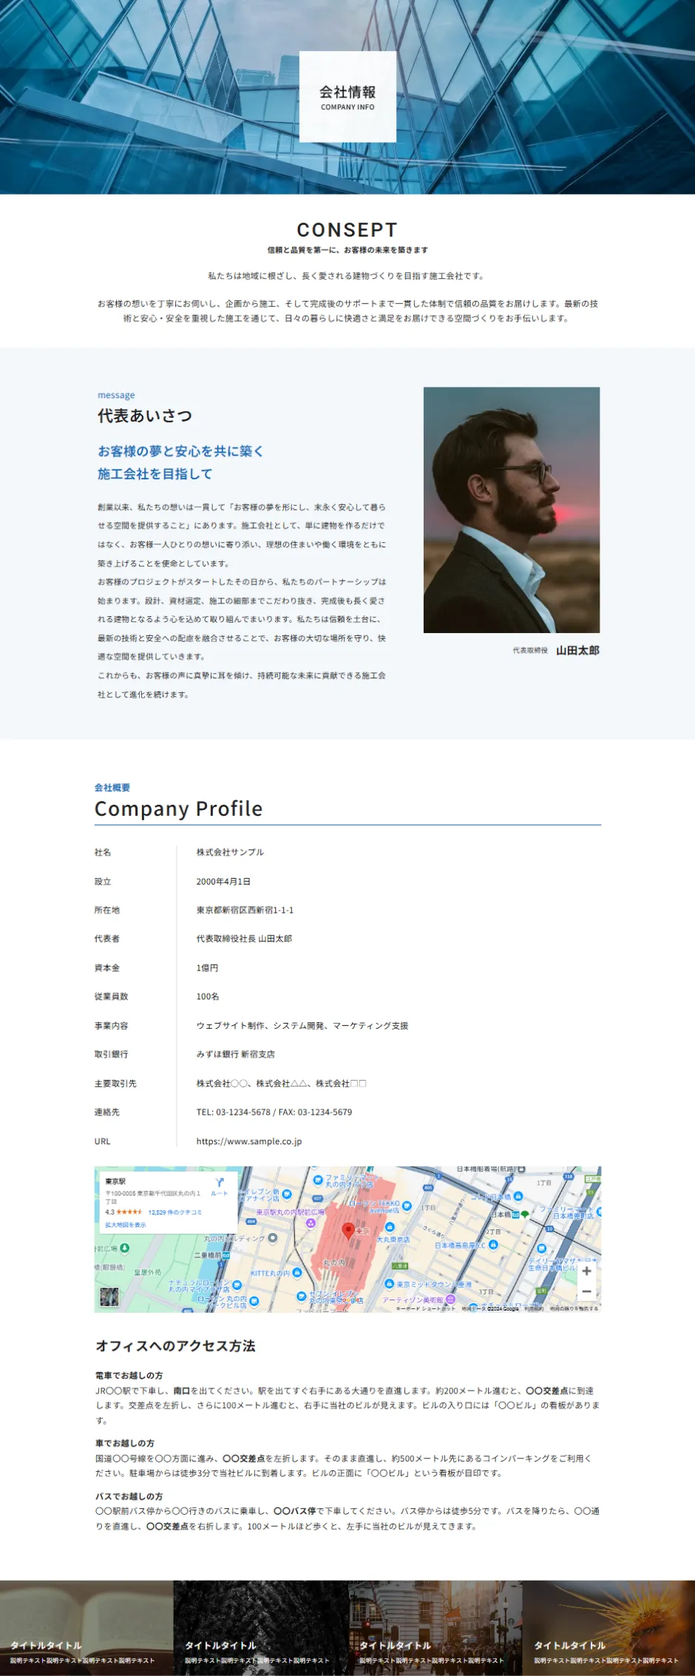
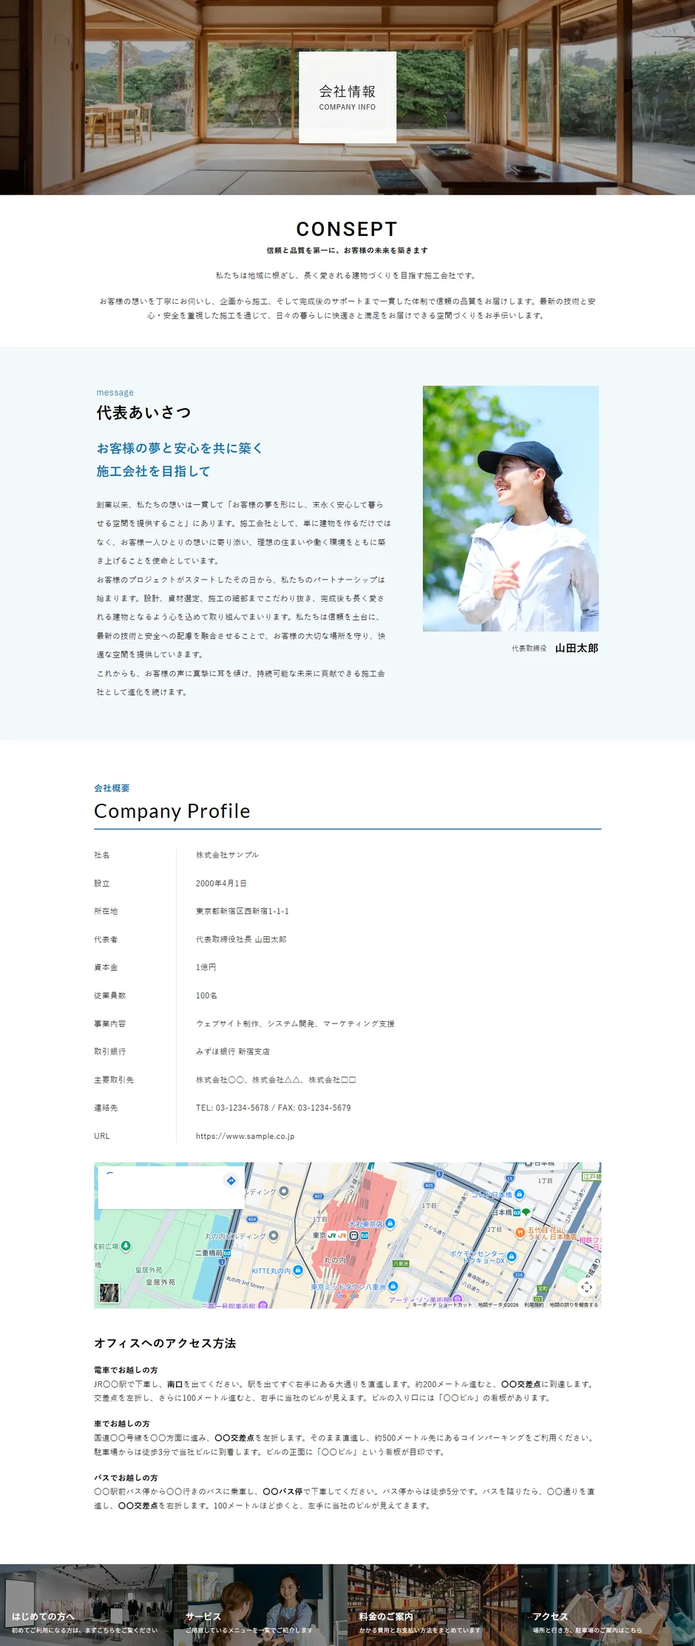
fix(templates): テンプレ選びの下見を、挿入結果と同じ中身にした（5本＋画像5枚）
テンプレを選ぶときに見える下見（①新規固定ページの下見画像 ②管理画面
「テンプレートの挿入」のその場で描く iframe）に、仮文言がそのまま出ていた。

🚨 原因の訂正: これは「画像が古いだけ」ではなかった。
静的ブロック（block.json に render が無いもの）は do_blocks() が
**保存されたHTMLをそのまま返す**。属性から作り直すのはエディタのJSの中だけなので、
page_template/*.php の生HTMLが古い＝下見にそのまま出る。

中身:
- top/ptn_1  … lw-banner-info-03 の説明3つ ＋ lw-qa-1 の6問6答（contents が
                source:"query"＝HTMLが正本なので既定値では直らない）
- top/ptn_4  … lw-banner-info-03 の説明3つ（属性に直書きされていた）
- top/ptn_4 / top/ptn_6 / company/ptn_2 / fv_only/ptn_7 … lw-banner-info-02 と
                fv-7 を、いまの既定値で作り直し
- my-blocks/build/lw-qa-1/block.json … 既定値の5問5答が仮文言のままだったので差し替え
- 下見画像5枚を撮り直し（ローカルWPでテーマ自身の描画関数を通して撮影）

🚨 ptn_6 と company/ptn_2 は Google マップ（core/html の中の iframe）を持つ。
ファイル丸ごとの作り直しでは中身が消えるため、lw-banner-info-02 だけを
差し替えている（道具側に歯止めを入れた）。地図は残っていることを機械で確認済み。

⚠ リリースではない。theme-update.json は 2.3.1 のまま、Release も作っていない。

Claude-Session: https://claude.ai/code/session_01CJKbnVLBxYpMxaDsbKM6L3

diff --git a/LiteWord/page_template/top/ptn_4.php b/LiteWord/page_template/top/ptn_4.php
@@ -1,5 +1,5 @@
 <!-- wp:wdl/fv-7 {"subTitle":"銀座の女性のための個室エステ『SAMPLE』","mainTitle":"\u003cspan data-lw_font_set=\u0022Noto Serif JP\u0022 class=\u0022custom-font-settings custom-font-settings fs-0-8 fs-sp-0-7 ls-0\u0022\u003e心と肌に、極上のひと時を。\u003c/span\u003e","description":"日頃の心の疲れからくる、身体のゆがみ、お肌の荒れを改善いたします\u003cbr\u003e初回半額となりますので、お気軽にご予約ください","buttonText":"ご予約・ご相談はこちら","videoType":"vimeo","videoUrl":"https://lite-word.com/wp-content/uploads/2024/11/AdobeStock_247601239.mov","vimeoId":"1128577437","filterOpacity":0.2,"className":"min-h-pc-600px"} -->
-<div class="wp-block-wdl-fv-7 fv-7 min-h-pc-600px"><div class="fv-7__inner"><h1 class="title"><div class="sub">銀座の女性のための個室エステ『SAMPLE』</div><div class="main"><span data-lw_font_set="Noto Serif JP" class="custom-font-settings custom-font-settings fs-0-8 fs-sp-0-7 ls-0">心と肌に、極上のひと時を。</span></div></h1><p class="description">日頃の心の疲れからくる、身体のゆがみ、お肌の荒れを改善いたします<br>初回半額となりますので、お気軽にご予約ください</p><div class="btn"><a href="" class="btn-text">ご予約・ご相談はこちら</a></div></div><div class="bg_image"><div class="vimeo-wrapper"><iframe src="https://player.vimeo.com/video/1128577437?background=1&amp;autoplay=1&amp;loop=1&amp;muted=1" frameborder="0" allow="autoplay; fullscreen" class="vimeo-video"></iframe></div><div class="filter" style="background-color:#000000;opacity:0.2"></div></div></div>
+<div class="wp-block-wdl-fv-7 fv-7  min-h-pc-600px"><div class="fv-7__inner"><h1 class="title"><div class="sub">銀座の女性のための個室エステ『SAMPLE』</div><div class="main"><span data-lw_font_set="Noto Serif JP" class="custom-font-settings custom-font-settings fs-0-8 fs-sp-0-7 ls-0">心と肌に、極上のひと時を。</span></div></h1><p class="description">日頃の心の疲れからくる、身体のゆがみ、お肌の荒れを改善いたします<br>初回半額となりますので、お気軽にご予約ください</p><div class="btn"><a href="" class="btn-text">ご予約・ご相談はこちら</a></div></div><div class="bg_image"><div class="vimeo-wrapper"><iframe src="https://player.vimeo.com/video/1128577437?background=1&amp;autoplay=1&amp;loop=1&amp;muted=1" frameborder="0" allow="autoplay; fullscreen" class="vimeo-video"></iframe></div><div class="filter" style="background-color:#000000;opacity:0.2"></div></div></div>
 <!-- /wp:wdl/fv-7 -->
 
 <!-- wp:wdl/lw-space-1 {"pcHeight":56,"tbHeight":32,"spHeight":24} -->
@@ -7,18 +7,18 @@
 <!-- /wp:wdl/lw-space-1 -->
 
 <!-- wp:wdl/custom-title-4 {"mainTitle":"\u003cspan class=\u0022custom-font-settings custom-font-settings fw-600\u0022 data-lw_font_set=\u0022Noto Serif JP\u0022\u003eSalon Samlpe\u003c/span\u003e","subTitle":"\u003cspan class=\u0022custom-font-settings custom-font-settings\u0022 data-lw_font_set=\u0022Noto Serif JP\u0022\u003eCONCEPT\u003c/span\u003e"} -->
-<h2 class="wp-block-wdl-custom-title-4 custom-title-4"><span class="sub"><span class="custom-font-settings custom-font-settings" data-lw_font_set="Noto Serif JP">CONCEPT</span></span><span class="main"><span class="custom-font-settings custom-font-settings fw-600" data-lw_font_set="Noto Serif JP">Salon Samlpe</span></span></h2>
+<h2 class="wp-block-wdl-custom-title-4 custom-title-4" style="--custom-title-sub-margin-bottom-pc:0.6em;--custom-title-sub-margin-bottom-sp:0.6em"><span class="sub"><span class="custom-font-settings custom-font-settings" data-lw_font_set="Noto Serif JP">CONCEPT</span></span><span class="main"><span class="custom-font-settings custom-font-settings fw-600" data-lw_font_set="Noto Serif JP">Salon Samlpe</span></span></h2>
 <!-- /wp:wdl/custom-title-4 -->
 
-<!-- wp:paragraph {"align":"center","className":"is-style-p_sp_left"} -->
+<!-- wp:paragraph {"className":"is-style-p_sp_left","style":{"typography":{"textAlign":"center"}}} -->
 <p class="has-text-align-center is-style-p_sp_left">銀座にある女性専用の個室エステ『SAMPLE』では<br>心身の疲れを癒し、美しさを引き出すお手伝いをいたします。</p>
 <!-- /wp:paragraph -->
 
-<!-- wp:paragraph {"align":"center","className":"is-style-p_sp_left"} -->
+<!-- wp:paragraph {"className":"is-style-p_sp_left","style":{"typography":{"textAlign":"center"}}} -->
 <p class="has-text-align-center is-style-p_sp_left">日々のストレスや心の疲れがもたらす体のゆがみや肌トラブルを丁寧にケアし、心地よいひと時をご提供します。完全個室でリラックスしながら、あなただけの特別な時間をお楽しみください。</p>
 <!-- /wp:paragraph -->
 
-<!-- wp:paragraph {"align":"center","className":"is-style-p_sp_left"} -->
+<!-- wp:paragraph {"className":"is-style-p_sp_left","style":{"typography":{"textAlign":"center"}}} -->
 <p class="has-text-align-center is-style-p_sp_left">初回は特別価格で体験いただけますので、この機会にぜひお試しください。</p>
 <!-- /wp:paragraph -->
 
@@ -26,8 +26,8 @@
 <div class="wp-block-wdl-lw-space-1 lw_space_1"><div class="pc" style="height:24px"></div><div class="tb" style="height:16px"></div><div class="sp" style="height:8px"></div></div>
 <!-- /wp:wdl/lw-space-1 -->
 
-<!-- wp:wdl/lw-banner-info-03 {"items":[{"title":"施術メニュー","description":"説明テキスト説明テ","imgUrl":"https://liteword-assets.bigi-ishikawa.workers.dev/t/up/AdobeStock_121686992.jpeg","linkUrl":"","openInNewTab":false},{"title":"スタッフ紹介","description":"説明テキスト説明テ","imgUrl":"https://liteword-assets.bigi-ishikawa.workers.dev/t/up/AdobeStock_441511692.jpeg","linkUrl":"","openInNewTab":false},{"title":"アクセス","description":"説明テキスト説明テ","imgUrl":"https://liteword-assets.bigi-ishikawa.workers.dev/t/up/AdobeStock_92988267.jpeg","linkUrl":"","openInNewTab":false}]} -->
-<nav class="wp-block-wdl-lw-banner-info-03 lw-banner-info-03"><ul class="lw-banner-info-03__wrap" style="max-width:800px"><li><div class="a"><img src="https://liteword-assets.bigi-ishikawa.workers.dev/t/up/AdobeStock_121686992.jpeg" alt=""/><h3 class="title" style="font-weight:600" data-lw_font_set="Noto Sans JP"><span>施術メニュー</span></h3><p class="description" style="font-weight:400" data-lw_font_set="Noto Sans JP"><span>説明テキスト説明テ</span></p><div class="filter" style="background-color:#000;opacity:0.45"></div></div></li><li><div class="a"><img src="https://liteword-assets.bigi-ishikawa.workers.dev/t/up/AdobeStock_441511692.jpeg" alt=""/><h3 class="title" style="font-weight:600" data-lw_font_set="Noto Sans JP"><span>スタッフ紹介</span></h3><p class="description" style="font-weight:400" data-lw_font_set="Noto Sans JP"><span>説明テキスト説明テ</span></p><div class="filter" style="background-color:#000;opacity:0.45"></div></div></li><li><div class="a"><img src="https://liteword-assets.bigi-ishikawa.workers.dev/t/up/AdobeStock_92988267.jpeg" alt=""/><h3 class="title" style="font-weight:600" data-lw_font_set="Noto Sans JP"><span>アクセス</span></h3><p class="description" style="font-weight:400" data-lw_font_set="Noto Sans JP"><span>説明テキスト説明テ</span></p><div class="filter" style="background-color:#000;opacity:0.45"></div></div></li></ul></nav>
+<!-- wp:wdl/lw-banner-info-03 {"items":[{"title":"施術メニュー","description":"メニューと料金","imgUrl":"https://liteword-assets.bigi-ishikawa.workers.dev/t/up/AdobeStock_121686992.jpeg","linkUrl":"","openInNewTab":false},{"title":"スタッフ紹介","description":"担当者のご紹介","imgUrl":"https://liteword-assets.bigi-ishikawa.workers.dev/t/up/AdobeStock_441511692.jpeg","linkUrl":"","openInNewTab":false},{"title":"アクセス","description":"場所と行き方","imgUrl":"https://liteword-assets.bigi-ishikawa.workers.dev/t/up/AdobeStock_92988267.jpeg","linkUrl":"","openInNewTab":false}]} -->
+<nav class="wp-block-wdl-lw-banner-info-03 lw-banner-info-03"><ul class="lw-banner-info-03__wrap" style="max-width:800px"><li><div class="a"><img src="https://liteword-assets.bigi-ishikawa.workers.dev/t/up/AdobeStock_121686992.jpeg" alt=""/><h3 class="title" style="font-weight:600" data-lw_font_set="Noto Sans JP"><span>施術メニュー</span></h3><p class="description" style="font-weight:400" data-lw_font_set="Noto Sans JP"><span>メニューと料金</span></p><div class="filter" style="background-color:#000;opacity:0.45"></div></div></li><li><div class="a"><img src="https://liteword-assets.bigi-ishikawa.workers.dev/t/up/AdobeStock_441511692.jpeg" alt=""/><h3 class="title" style="font-weight:600" data-lw_font_set="Noto Sans JP"><span>スタッフ紹介</span></h3><p class="description" style="font-weight:400" data-lw_font_set="Noto Sans JP"><span>担当者のご紹介</span></p><div class="filter" style="background-color:#000;opacity:0.45"></div></div></li><li><div class="a"><img src="https://liteword-assets.bigi-ishikawa.workers.dev/t/up/AdobeStock_92988267.jpeg" alt=""/><h3 class="title" style="font-weight:600" data-lw_font_set="Noto Sans JP"><span>アクセス</span></h3><p class="description" style="font-weight:400" data-lw_font_set="Noto Sans JP"><span>場所と行き方</span></p><div class="filter" style="background-color:#000;opacity:0.45"></div></div></li></ul></nav>
 <!-- /wp:wdl/lw-banner-info-03 -->
 
 <!-- wp:wdl/lw-space-1 {"pcHeight":24,"tbHeight":16,"spHeight":8} -->
@@ -35,7 +35,7 @@
 <!-- /wp:wdl/lw-space-1 -->
 
 <!-- wp:wdl/custom-title-4 {"mainTitle":"\u003cspan class=\u0022custom-font-settings custom-font-settings fw-600\u0022 data-lw_font_set=\u0022Noto Serif JP\u0022\u003eNews\u003c/span\u003e","subTitle":"\u003cspan class=\u0022custom-font-settings custom-font-settings\u0022 data-lw_font_set=\u0022Noto Serif JP\u0022\u003eお知らせ\u003c/span\u003e"} -->
-<h2 class="wp-block-wdl-custom-title-4 custom-title-4"><span class="sub"><span class="custom-font-settings custom-font-settings" data-lw_font_set="Noto Serif JP">お知らせ</span></span><span class="main"><span class="custom-font-settings custom-font-settings fw-600" data-lw_font_set="Noto Serif JP">News</span></span></h2>
+<h2 class="wp-block-wdl-custom-title-4 custom-title-4" style="--custom-title-sub-margin-bottom-pc:0.6em;--custom-title-sub-margin-bottom-sp:0.6em"><span class="sub"><span class="custom-font-settings custom-font-settings" data-lw_font_set="Noto Serif JP">お知らせ</span></span><span class="main"><span class="custom-font-settings custom-font-settings fw-600" data-lw_font_set="Noto Serif JP">News</span></span></h2>
 <!-- /wp:wdl/custom-title-4 -->
 
 <!-- wp:wdl/lw-news-list-1 -->
@@ -119,7 +119,7 @@
 <!-- /wp:wdl/lw-message-1 -->
 
 <!-- wp:wdl/cta-2 {"backgroundImage":"https://liteword-assets.bigi-ishikawa.workers.dev/t/up/AdobeStock_566396206-1.jpeg","buttonBackgroundColor":"#594b36","className":"cta-2"} -->
-<div class="wp-block-wdl-cta-2 cta-2"><div class="cta-2" style="background-image:url(https://liteword-assets.bigi-ishikawa.workers.dev/t/up/AdobeStock_566396206-1.jpeg)"><div class="cta-2__wrap"><h2 class="title">お問合せはこちら</h2><p class="address">〒110-0000 東京都豊島区池袋0-0-0／TEL. 042-000-0000／FAX. 042-000-0001</p><nav><a href="tel:042-000-0000" class="tel" data-lw_font_set="Roboto"><div class="no"><div class="small">TEL:</div><div class="big">042-000-0000</div></div><p class="tel_text">（受付時間／9:00～17:00 第2・第4土曜、日祝休業）</p></a><a href="mailto:info@example.com" class="mail" style="background-color:#594b36;color:#ffffff"><div class="icon" style="fill:#ffffff"><svg xmlns="http://www.w3.org/2000/svg" viewBox="0 0 512 512"><!--!Font Awesome Free 6.6.0 by @fontawesome - https://fontawesome.com License - https://fontawesome.com/license/free Copyright 2024 Fonticons, Inc.--><path d="M64 112c-8.8 0-16 7.2-16 16l0 22.1L220.5 291.7c20.7 17 50.4 17 71.1 0L464 150.1l0-22.1c0-8.8-7.2-16-16-16L64 112zM48 212.2L48 384c0 8.8 7.2 16 16 16l384 0c8.8 0 16-7.2 16-16l0-171.8L322 328.8c-38.4 31.5-93.7 31.5-132 0L48 212.2zM0 128C0 92.7 28.7 64 64 64l384 0c35.3 0 64 28.7 64 64l0 256c0 35.3-28.7 64-64 64L64 448c-35.3 0-64-28.7-64-64L0 128z"/></svg></div><div class="mail_text">メールでお問い合わせ</div></a></nav></div><div class="bg_filter" style="background-color:rgba(0, 0, 0, 0.5)"></div></div></div>
+<div class="wp-block-wdl-cta-2  cta-2"><div class="cta-2" style="background-image:url(https://liteword-assets.bigi-ishikawa.workers.dev/t/up/AdobeStock_566396206-1.jpeg)"><div class="cta-2__wrap"><h2 class="title">お問合せはこちら</h2><p class="address">〒110-0000 東京都豊島区池袋0-0-0／TEL. 042-000-0000／FAX. 042-000-0001</p><nav><a href="tel:042-000-0000" class="tel" data-lw_font_set="Roboto"><div class="no"><div class="small">TEL:</div><div class="big">042-000-0000</div></div><p class="tel_text">（受付時間／9:00～17:00 第2・第4土曜、日祝休業）</p></a><a href="mailto:info@example.com" class="mail" style="background-color:#594b36;color:#ffffff"><div class="icon" style="fill:#ffffff"><svg xmlns="http://www.w3.org/2000/svg" viewBox="0 0 512 512"><path d="M64 112c-8.8 0-16 7.2-16 16l0 22.1L220.5 291.7c20.7 17 50.4 17 71.1 0L464 150.1l0-22.1c0-8.8-7.2-16-16-16L64 112zM48 212.2L48 384c0 8.8 7.2 16 16 16l384 0c8.8 0 16-7.2 16-16l0-171.8L322 328.8c-38.4 31.5-93.7 31.5-132 0L48 212.2zM0 128C0 92.7 28.7 64 64 64l384 0c35.3 0 64 28.7 64 64l0 256c0 35.3-28.7 64-64 64L64 448c-35.3 0-64-28.7-64-64L0 128z"/></svg></div><div class="mail_text">メールでお問い合わせ</div></a></nav></div><div class="bg_filter" style="background-color:rgba(0, 0, 0, 0.5)"></div></div></div>
 <!-- /wp:wdl/cta-2 -->
 
 <!-- wp:wdl/lw-space-1 {"pcHeight":64,"tbHeight":48,"spHeight":32} -->
@@ -127,7 +127,7 @@
 <!-- /wp:wdl/lw-space-1 -->
 
 <!-- wp:wdl/custom-title-4 {"mainTitle":"\u003cspan class=\u0022custom-font-settings custom-font-settings fw-600\u0022 data-lw_font_set=\u0022Noto Serif JP\u0022\u003eStaff Blog\u003c/span\u003e","subTitle":"\u003cspan class=\u0022custom-font-settings custom-font-settings\u0022 data-lw_font_set=\u0022Noto Serif JP\u0022\u003e最新情報・コラム\u003c/span\u003e"} -->
-<h2 class="wp-block-wdl-custom-title-4 custom-title-4"><span class="sub"><span class="custom-font-settings custom-font-settings" data-lw_font_set="Noto Serif JP">最新情報・コラム</span></span><span class="main"><span class="custom-font-settings custom-font-settings fw-600" data-lw_font_set="Noto Serif JP">Staff Blog</span></span></h2>
+<h2 class="wp-block-wdl-custom-title-4 custom-title-4" style="--custom-title-sub-margin-bottom-pc:0.6em;--custom-title-sub-margin-bottom-sp:0.6em"><span class="sub"><span class="custom-font-settings custom-font-settings" data-lw_font_set="Noto Serif JP">最新情報・コラム</span></span><span class="main"><span class="custom-font-settings custom-font-settings fw-600" data-lw_font_set="Noto Serif JP">Staff Blog</span></span></h2>
 <!-- /wp:wdl/custom-title-4 -->
 
 <!-- wp:wdl/lw-post-list-1 -->
@@ -217,7 +217,7 @@
 <!-- /wp:wdl/lw-space-1 -->
 
 <!-- wp:wdl/lw-banner-info-02 -->
-<nav class="wp-block-wdl-lw-banner-info-02 lw-banner-info-02"><ul class="lw-banner-info-02__wrap"><li><div class="a"><img src="https://liteword-assets.bigi-ishikawa.workers.dev/t/sample/shop/1.webp" alt=""/><h3 class="title" style="font-weight:600" data-lw_font_set="Noto Sans JP"><span>タイトルタイトル</span></h3><p class="description" style="font-weight:400" data-lw_font_set="Noto Sans JP"><span>説明テキスト説明テキスト説明テキスト説明テキスト</span></p><div class="filter" style="background-color:#000;opacity:0.45"></div></div></li><li><div class="a"><img src="https://liteword-assets.bigi-ishikawa.workers.dev/t/sample/shop/2.webp" alt=""/><h3 class="title" style="font-weight:600" data-lw_font_set="Noto Sans JP"><span>タイトルタイトル</span></h3><p class="description" style="font-weight:400" data-lw_font_set="Noto Sans JP"><span>説明テキスト説明テキスト説明テキスト説明テキスト</span></p><div class="filter" style="background-color:#000;opacity:0.45"></div></div></li><li><div class="a"><img src="https://liteword-assets.bigi-ishikawa.workers.dev/t/sample/shop/3.webp" alt=""/><h3 class="title" style="font-weight:600" data-lw_font_set="Noto Sans JP"><span>タイトルタイトル</span></h3><p class="description" style="font-weight:400" data-lw_font_set="Noto Sans JP"><span>説明テキスト説明テキスト説明テキスト説明テキスト</span></p><div class="filter" style="background-color:#000;opacity:0.45"></div></div></li><li><div class="a"><img src="https://liteword-assets.bigi-ishikawa.workers.dev/t/sample/shop/4.webp" alt=""/><h3 class="title" style="font-weight:600" data-lw_font_set="Noto Sans JP"><span>タイトルタイトル</span></h3><p class="description" style="font-weight:400" data-lw_font_set="Noto Sans JP"><span>説明テキスト説明テキスト説明テキスト説明テキスト</span></p><div class="filter" style="background-color:#000;opacity:0.45"></div></div></li></ul></nav>
+<nav class="wp-block-wdl-lw-banner-info-02 lw-banner-info-02"><ul class="lw-banner-info-02__wrap"><li><div class="a"><img src="https://liteword-assets.bigi-ishikawa.workers.dev/t/sample/shop/1.webp" alt=""/><h3 class="title" style="font-weight:600" data-lw_font_set="Noto Sans JP"><span>はじめての方へ</span></h3><p class="description" style="font-weight:400" data-lw_font_set="Noto Sans JP"><span>初めてご利用になる方は、まずこちらをご覧ください</span></p><div class="filter" style="background-color:#000;opacity:0.45"></div></div></li><li><div class="a"><img src="https://liteword-assets.bigi-ishikawa.workers.dev/t/sample/shop/2.webp" alt=""/><h3 class="title" style="font-weight:600" data-lw_font_set="Noto Sans JP"><span>サービス</span></h3><p class="description" style="font-weight:400" data-lw_font_set="Noto Sans JP"><span>ご用意しているメニューを一覧でご紹介します</span></p><div class="filter" style="background-color:#000;opacity:0.45"></div></div></li><li><div class="a"><img src="https://liteword-assets.bigi-ishikawa.workers.dev/t/sample/shop/3.webp" alt=""/><h3 class="title" style="font-weight:600" data-lw_font_set="Noto Sans JP"><span>料金のご案内</span></h3><p class="description" style="font-weight:400" data-lw_font_set="Noto Sans JP"><span>かかる費用とお支払い方法をまとめています</span></p><div class="filter" style="background-color:#000;opacity:0.45"></div></div></li><li><div class="a"><img src="https://liteword-assets.bigi-ishikawa.workers.dev/t/sample/shop/4.webp" alt=""/><h3 class="title" style="font-weight:600" data-lw_font_set="Noto Sans JP"><span>アクセス</span></h3><p class="description" style="font-weight:400" data-lw_font_set="Noto Sans JP"><span>場所と行き方、駐車場のご案内はこちら</span></p><div class="filter" style="background-color:#000;opacity:0.45"></div></div></li></ul></nav>
 <!-- /wp:wdl/lw-banner-info-02 -->
 
 <!-- wp:paragraph -->

diff --git a/LiteWord/page_template/top/ptn_1.php b/LiteWord/page_template/top/ptn_1.php
@@ -22,8 +22,8 @@
 <p class="has-text-align-center is-style-p_sp_left">WordPressテーマ『LiteWord』はコーポレートサイト（企業や個人事業主）向けに制作いたしました。<br>初心者でも簡単に作れるように、シンプルでありながら、多くの仕組みを搭載しています<br>無料で利用できますので、ぜひお気軽にお試しください。</p>
 <!-- /wp:paragraph -->
 
-<!-- wp:wdl/lw-banner-info-03 {"items":[{"title":"機能紹介","description":"説明テキスト説明テ","imgUrl":"https://liteword-assets.bigi-ishikawa.workers.dev/t/sample/shop/1.webp","linkUrl":"","openInNewTab":false},{"title":"マニュアル","description":"説明テキスト説明テ","imgUrl":"https://liteword-assets.bigi-ishikawa.workers.dev/t/sample/shop/2.webp","linkUrl":"","openInNewTab":false},{"title":"ブログ","description":"説明テキスト説明テ","imgUrl":"https://liteword-assets.bigi-ishikawa.workers.dev/t/sample/shop/3.webp","linkUrl":"","openInNewTab":false}]} -->
-<nav class="wp-block-wdl-lw-banner-info-03 lw-banner-info-03"><ul class="lw-banner-info-03__wrap" style="max-width:800px"><li><div class="a"><img src="https://liteword-assets.bigi-ishikawa.workers.dev/t/sample/shop/1.webp" alt=""/><h3 class="title" style="font-weight:600" data-lw_font_set="Noto Sans JP"><span>機能紹介</span></h3><p class="description" style="font-weight:400" data-lw_font_set="Noto Sans JP"><span>説明テキスト説明テ</span></p><div class="filter" style="background-color:#000;opacity:0.45"></div></div></li><li><div class="a"><img src="https://liteword-assets.bigi-ishikawa.workers.dev/t/sample/shop/2.webp" alt=""/><h3 class="title" style="font-weight:600" data-lw_font_set="Noto Sans JP"><span>マニュアル</span></h3><p class="description" style="font-weight:400" data-lw_font_set="Noto Sans JP"><span>説明テキスト説明テ</span></p><div class="filter" style="background-color:#000;opacity:0.45"></div></div></li><li><div class="a"><img src="https://liteword-assets.bigi-ishikawa.workers.dev/t/sample/shop/3.webp" alt=""/><h3 class="title" style="font-weight:600" data-lw_font_set="Noto Sans JP"><span>ブログ</span></h3><p class="description" style="font-weight:400" data-lw_font_set="Noto Sans JP"><span>説明テキスト説明テ</span></p><div class="filter" style="background-color:#000;opacity:0.45"></div></div></li></ul></nav>
+<!-- wp:wdl/lw-banner-info-03 {"items":[{"title":"機能紹介","description":"できることの一覧","imgUrl":"https://liteword-assets.bigi-ishikawa.workers.dev/t/sample/shop/1.webp","linkUrl":"","openInNewTab":false},{"title":"マニュアル","description":"使い方の手引き","imgUrl":"https://liteword-assets.bigi-ishikawa.workers.dev/t/sample/shop/2.webp","linkUrl":"","openInNewTab":false},{"title":"ブログ","description":"最新の記事はこちら","imgUrl":"https://liteword-assets.bigi-ishikawa.workers.dev/t/sample/shop/3.webp","linkUrl":"","openInNewTab":false}]} -->
+<nav class="wp-block-wdl-lw-banner-info-03 lw-banner-info-03"><ul class="lw-banner-info-03__wrap" style="max-width:800px"><li><div class="a"><img src="https://liteword-assets.bigi-ishikawa.workers.dev/t/sample/shop/1.webp" alt=""/><h3 class="title" style="font-weight:600" data-lw_font_set="Noto Sans JP"><span>機能紹介</span></h3><p class="description" style="font-weight:400" data-lw_font_set="Noto Sans JP"><span>できることの一覧</span></p><div class="filter" style="background-color:#000;opacity:0.45"></div></div></li><li><div class="a"><img src="https://liteword-assets.bigi-ishikawa.workers.dev/t/sample/shop/2.webp" alt=""/><h3 class="title" style="font-weight:600" data-lw_font_set="Noto Sans JP"><span>マニュアル</span></h3><p class="description" style="font-weight:400" data-lw_font_set="Noto Sans JP"><span>使い方の手引き</span></p><div class="filter" style="background-color:#000;opacity:0.45"></div></div></li><li><div class="a"><img src="https://liteword-assets.bigi-ishikawa.workers.dev/t/sample/shop/3.webp" alt=""/><h3 class="title" style="font-weight:600" data-lw_font_set="Noto Sans JP"><span>ブログ</span></h3><p class="description" style="font-weight:400" data-lw_font_set="Noto Sans JP"><span>最新の記事はこちら</span></p><div class="filter" style="background-color:#000;opacity:0.45"></div></div></li></ul></nav>
 <!-- /wp:wdl/lw-banner-info-03 -->
 
 <!-- wp:wdl/lw-space-1 {"pcHeight":32,"tbHeight":24,"spHeight":16} -->
@@ -153,7 +153,7 @@
 <!-- /wp:wdl/custom-title-5 -->
 
 <!-- wp:wdl/lw-qa-1 {"blockId":"lw-qa-1745031883427-2189"} -->
-<div class="wp-block-wdl-lw-qa-1 lw-qa-1" id="lw-qa-1745031883427-2189"><dl class="lw-qa-1__dl"><dt><div class="label" data-lw_font_set="Roboto" style="font-weight:">Q<div style="background:var(--color-main)"></div></div><div class="lw-qa-1__text_q"><p data-lw_font_set="" style="font-weight:">質問テキスト質問テキスト質問テキスト</p></div><div class="open_icon" style="background:var(--color-main)"></div></dt><dd><div class="label" data-lw_font_set="Roboto" style="font-weight:;color:var(--color-main)">A<div style="background:var(--color-main)"></div></div><div class="lw-qa-1__text_a"><p data-lw_font_set="" style="font-weight:">回答テキスト回答テキスト回答テキスト回答テキスト回答テキスト回答テキスト</p></div></dd></dl><dl class="lw-qa-1__dl"><dt><div class="label" data-lw_font_set="Roboto" style="font-weight:">Q<div style="background:var(--color-main)"></div></div><div class="lw-qa-1__text_q"><p data-lw_font_set="" style="font-weight:">質問テキスト質問テキスト質問テキスト</p></div><div class="open_icon" style="background:var(--color-main)"></div></dt><dd><div class="label" data-lw_font_set="Roboto" style="font-weight:;color:var(--color-main)">A<div style="background:var(--color-main)"></div></div><div class="lw-qa-1__text_a"><p data-lw_font_set="" style="font-weight:">回答テキスト回答テキスト回答テキスト回答テキスト回答テキスト回答テキス</p></div></dd></dl><dl class="lw-qa-1__dl"><dt><div class="label" data-lw_font_set="Roboto" style="font-weight:">Q<div style="background:var(--color-main)"></div></div><div class="lw-qa-1__text_q"><p data-lw_font_set="" style="font-weight:">質問テキスト質問テキスト質問テキスト</p></div><div class="open_icon" style="background:var(--color-main)"></div></dt><dd><div class="label" data-lw_font_set="Roboto" style="font-weight:;color:var(--color-main)">A<div style="background:var(--color-main)"></div></div><div class="lw-qa-1__text_a"><p data-lw_font_set="" style="font-weight:">回答テキスト回答テキスト回答テキスト回答テキスト回答テキスト回答テキスト</p></div></dd></dl><dl class="lw-qa-1__dl"><dt><div class="label" data-lw_font_set="Roboto" style="font-weight:">Q<div style="background:var(--color-main)"></div></div><div class="lw-qa-1__text_q"><p data-lw_font_set="" style="font-weight:">質問テキスト質問テキスト質問テキスト</p></div><div class="open_icon" style="background:var(--color-main)"></div></dt><dd><div class="label" data-lw_font_set="Roboto" style="font-weight:;color:var(--color-main)">A<div style="background:var(--color-main)"></div></div><div class="lw-qa-1__text_a"><p data-lw_font_set="" style="font-weight:">回答テキスト回答テキスト回答テキスト回答テキスト回答テキスト回答テキスト</p></div></dd></dl><dl class="lw-qa-1__dl"><dt><div class="label" data-lw_font_set="Roboto" style="font-weight:">Q<div style="background:var(--color-main)"></div></div><div class="lw-qa-1__text_q"><p data-lw_font_set="" style="font-weight:">質問テキスト質問テキスト質問テキスト</p></div><div class="open_icon" style="background:var(--color-main)"></div></dt><dd><div class="label" data-lw_font_set="Roboto" style="font-weight:;color:var(--color-main)">A<div style="background:var(--color-main)"></div></div><div class="lw-qa-1__text_a"><p data-lw_font_set="" style="font-weight:">回答テキスト回答テキスト回答テキスト回答テキスト回答テキスト回答テキスト</p></div></dd></dl><dl class="lw-qa-1__dl"><dt><div class="label" data-lw_font_set="Roboto" style="font-weight:">Q<div style="background:var(--color-main)"></div></div><div class="lw-qa-1__text_q"><p data-lw_font_set="" style="font-weight:">質問テキスト質問テキスト質問テキスト</p></div><div class="open_icon" style="background:var(--color-main)"></div></dt><dd><div class="label" data-lw_font_set="Roboto" style="font-weight:;color:var(--color-main)">A<div style="background:var(--color-main)"></div></div><div class="lw-qa-1__text_a"><p data-lw_font_set="" style="font-weight:">回答テキスト回答テキスト回答テキスト回答テキスト回答テキスト回答テキスト</p></div></dd></dl><script>
+<div class="wp-block-wdl-lw-qa-1 lw-qa-1" id="lw-qa-1745031883427-2189"><dl class="lw-qa-1__dl"><dt><div class="label" data-lw_font_set="Roboto" style="font-weight:">Q<div style="background:var(--color-main)"></div></div><div class="lw-qa-1__text_q"><p data-lw_font_set="" style="font-weight:">はじめて利用します。何から始めればよいですか？</p></div><div class="open_icon" style="background:var(--color-main)"></div></dt><dd><div class="label" data-lw_font_set="Roboto" style="font-weight:;color:var(--color-main)">A<div style="background:var(--color-main)"></div></div><div class="lw-qa-1__text_a"><p data-lw_font_set="" style="font-weight:">まずはお問い合わせフォームからご連絡ください。ご希望をうかがったうえで、進め方をご案内します。</p></div></dd></dl><dl class="lw-qa-1__dl"><dt><div class="label" data-lw_font_set="Roboto" style="font-weight:">Q<div style="background:var(--color-main)"></div></div><div class="lw-qa-1__text_q"><p data-lw_font_set="" style="font-weight:">料金はどのくらいかかりますか？</p></div><div class="open_icon" style="background:var(--color-main)"></div></dt><dd><div class="label" data-lw_font_set="Roboto" style="font-weight:;color:var(--color-main)">A<div style="background:var(--color-main)"></div></div><div class="lw-qa-1__text_a"><p data-lw_font_set="" style="font-weight:">ご依頼の内容によって変わります。おおよその目安は料金のご案内にまとめていますので、あわせてご覧ください。</p></div></dd></dl><dl class="lw-qa-1__dl"><dt><div class="label" data-lw_font_set="Roboto" style="font-weight:">Q<div style="background:var(--color-main)"></div></div><div class="lw-qa-1__text_q"><p data-lw_font_set="" style="font-weight:">相談だけでも大丈夫ですか？</p></div><div class="open_icon" style="background:var(--color-main)"></div></dt><dd><div class="label" data-lw_font_set="Roboto" style="font-weight:;color:var(--color-main)">A<div style="background:var(--color-main)"></div></div><div class="lw-qa-1__text_a"><p data-lw_font_set="" style="font-weight:">もちろん大丈夫です。迷っている段階のご相談も歓迎しています。無理にお勧めすることはありません。</p></div></dd></dl><dl class="lw-qa-1__dl"><dt><div class="label" data-lw_font_set="Roboto" style="font-weight:">Q<div style="background:var(--color-main)"></div></div><div class="lw-qa-1__text_q"><p data-lw_font_set="" style="font-weight:">申し込みからどのくらいで始められますか？</p></div><div class="open_icon" style="background:var(--color-main)"></div></dt><dd><div class="label" data-lw_font_set="Roboto" style="font-weight:;color:var(--color-main)">A<div style="background:var(--color-main)"></div></div><div class="lw-qa-1__text_a"><p data-lw_font_set="" style="font-weight:">ご相談の内容にもよりますが、お申し込みから数日のうちにご案内できることがほとんどです。</p></div></dd></dl><dl class="lw-qa-1__dl"><dt><div class="label" data-lw_font_set="Roboto" style="font-weight:">Q<div style="background:var(--color-main)"></div></div><div class="lw-qa-1__text_q"><p data-lw_font_set="" style="font-weight:">見積もりをお願いできますか？</p></div><div class="open_icon" style="background:var(--color-main)"></div></dt><dd><div class="label" data-lw_font_set="Roboto" style="font-weight:;color:var(--color-main)">A<div style="background:var(--color-main)"></div></div><div class="lw-qa-1__text_a"><p data-lw_font_set="" style="font-weight:">はい。ご希望の内容をお知らせいただければ、お見積もりをお出しします。費用はご了承いただいてから発生します。</p></div></dd></dl><dl class="lw-qa-1__dl"><dt><div class="label" data-lw_font_set="Roboto" style="font-weight:">Q<div style="background:var(--color-main)"></div></div><div class="lw-qa-1__text_q"><p data-lw_font_set="" style="font-weight:">対応できる地域は決まっていますか？</p></div><div class="open_icon" style="background:var(--color-main)"></div></dt><dd><div class="label" data-lw_font_set="Roboto" style="font-weight:;color:var(--color-main)">A<div style="background:var(--color-main)"></div></div><div class="lw-qa-1__text_a"><p data-lw_font_set="" style="font-weight:">オンラインでのご対応は全国から承っています。お伺いが必要な場合は、一度ご相談ください。</p></div></dd></dl><script>
 (function(){
 	const scriptEl  = document.currentScript;
 	if ( !scriptEl ) return;

diff --git a/LiteWord/page_template/top/ptn_6.php b/LiteWord/page_template/top/ptn_6.php
@@ -105,5 +105,5 @@
 <!-- /wp:wdl/lw-space-1 -->
 
 <!-- wp:wdl/lw-banner-info-02 -->
-<nav class="wp-block-wdl-lw-banner-info-02 lw-banner-info-02"><ul class="lw-banner-info-02__wrap"><li><div class="a"><img src="https://liteword-assets.bigi-ishikawa.workers.dev/t/sample/shop/1.webp" alt=""/><h3 class="title" style="font-weight:600" data-lw_font_set="Noto Sans JP"><span>タイトルタイトル</span></h3><p class="description" style="font-weight:400" data-lw_font_set="Noto Sans JP"><span>説明テキスト説明テキスト説明テキスト説明テキスト</span></p><div class="filter" style="background-color:#000;opacity:0.45"></div></div></li><li><div class="a"><img src="https://liteword-assets.bigi-ishikawa.workers.dev/t/sample/shop/2.webp" alt=""/><h3 class="title" style="font-weight:600" data-lw_font_set="Noto Sans JP"><span>タイトルタイトル</span></h3><p class="description" style="font-weight:400" data-lw_font_set="Noto Sans JP"><span>説明テキスト説明テキスト説明テキスト説明テキスト</span></p><div class="filter" style="background-color:#000;opacity:0.45"></div></div></li><li><div class="a"><img src="https://liteword-assets.bigi-ishikawa.workers.dev/t/sample/shop/3.webp" alt=""/><h3 class="title" style="font-weight:600" data-lw_font_set="Noto Sans JP"><span>タイトルタイトル</span></h3><p class="description" style="font-weight:400" data-lw_font_set="Noto Sans JP"><span>説明テキスト説明テキスト説明テキスト説明テキスト</span></p><div class="filter" style="background-color:#000;opacity:0.45"></div></div></li><li><div class="a"><img src="https://liteword-assets.bigi-ishikawa.workers.dev/t/sample/shop/4.webp" alt=""/><h3 class="title" style="font-weight:600" data-lw_font_set="Noto Sans JP"><span>タイトルタイトル</span></h3><p class="description" style="font-weight:400" data-lw_font_set="Noto Sans JP"><span>説明テキスト説明テキスト説明テキスト説明テキスト</span></p><div class="filter" style="background-color:#000;opacity:0.45"></div></div></li></ul></nav>
+<nav class="wp-block-wdl-lw-banner-info-02 lw-banner-info-02"><ul class="lw-banner-info-02__wrap"><li><div class="a"><img src="https://liteword-assets.bigi-ishikawa.workers.dev/t/sample/shop/1.webp" alt=""/><h3 class="title" style="font-weight:600" data-lw_font_set="Noto Sans JP"><span>はじめての方へ</span></h3><p class="description" style="font-weight:400" data-lw_font_set="Noto Sans JP"><span>初めてご利用になる方は、まずこちらをご覧ください</span></p><div class="filter" style="background-color:#000;opacity:0.45"></div></div></li><li><div class="a"><img src="https://liteword-assets.bigi-ishikawa.workers.dev/t/sample/shop/2.webp" alt=""/><h3 class="title" style="font-weight:600" data-lw_font_set="Noto Sans JP"><span>サービス</span></h3><p class="description" style="font-weight:400" data-lw_font_set="Noto Sans JP"><span>ご用意しているメニューを一覧でご紹介します</span></p><div class="filter" style="background-color:#000;opacity:0.45"></div></div></li><li><div class="a"><img src="https://liteword-assets.bigi-ishikawa.workers.dev/t/sample/shop/3.webp" alt=""/><h3 class="title" style="font-weight:600" data-lw_font_set="Noto Sans JP"><span>料金のご案内</span></h3><p class="description" style="font-weight:400" data-lw_font_set="Noto Sans JP"><span>かかる費用とお支払い方法をまとめています</span></p><div class="filter" style="background-color:#000;opacity:0.45"></div></div></li><li><div class="a"><img src="https://liteword-assets.bigi-ishikawa.workers.dev/t/sample/shop/4.webp" alt=""/><h3 class="title" style="font-weight:600" data-lw_font_set="Noto Sans JP"><span>アクセス</span></h3><p class="description" style="font-weight:400" data-lw_font_set="Noto Sans JP"><span>場所と行き方、駐車場のご案内はこちら</span></p><div class="filter" style="background-color:#000;opacity:0.45"></div></div></li></ul></nav>
 <!-- /wp:wdl/lw-banner-info-02 -->

diff --git a/LiteWord/page_template/company/ptn_2.php b/LiteWord/page_template/company/ptn_2.php
@@ -63,5 +63,5 @@
 <!-- /wp:wdl/lw-space-1 -->
 
 <!-- wp:wdl/lw-banner-info-02 -->
-<nav class="wp-block-wdl-lw-banner-info-02 lw-banner-info-02"><ul class="lw-banner-info-02__wrap"><li><div class="a"><img src="https://liteword-assets.bigi-ishikawa.workers.dev/t/sample/shop/1.webp" alt=""/><h3 class="title" style="font-weight:600" data-lw_font_set="Noto Sans JP"><span>タイトルタイトル</span></h3><p class="description" style="font-weight:400" data-lw_font_set="Noto Sans JP"><span>説明テキスト説明テキスト説明テキスト説明テキスト</span></p><div class="filter" style="background-color:#000;opacity:0.45"></div></div></li><li><div class="a"><img src="https://liteword-assets.bigi-ishikawa.workers.dev/t/sample/shop/2.webp" alt=""/><h3 class="title" style="font-weight:600" data-lw_font_set="Noto Sans JP"><span>タイトルタイトル</span></h3><p class="description" style="font-weight:400" data-lw_font_set="Noto Sans JP"><span>説明テキスト説明テキスト説明テキスト説明テキスト</span></p><div class="filter" style="background-color:#000;opacity:0.45"></div></div></li><li><div class="a"><img src="https://liteword-assets.bigi-ishikawa.workers.dev/t/sample/shop/3.webp" alt=""/><h3 class="title" style="font-weight:600" data-lw_font_set="Noto Sans JP"><span>タイトルタイトル</span></h3><p class="description" style="font-weight:400" data-lw_font_set="Noto Sans JP"><span>説明テキスト説明テキスト説明テキスト説明テキスト</span></p><div class="filter" style="background-color:#000;opacity:0.45"></div></div></li><li><div class="a"><img src="https://liteword-assets.bigi-ishikawa.workers.dev/t/sample/shop/4.webp" alt=""/><h3 class="title" style="font-weight:600" data-lw_font_set="Noto Sans JP"><span>タイトルタイトル</span></h3><p class="description" style="font-weight:400" data-lw_font_set="Noto Sans JP"><span>説明テキスト説明テキスト説明テキスト説明テキスト</span></p><div class="filter" style="background-color:#000;opacity:0.45"></div></div></li></ul></nav>
+<nav class="wp-block-wdl-lw-banner-info-02 lw-banner-info-02"><ul class="lw-banner-info-02__wrap"><li><div class="a"><img src="https://liteword-assets.bigi-ishikawa.workers.dev/t/sample/shop/1.webp" alt=""/><h3 class="title" style="font-weight:600" data-lw_font_set="Noto Sans JP"><span>はじめての方へ</span></h3><p class="description" style="font-weight:400" data-lw_font_set="Noto Sans JP"><span>初めてご利用になる方は、まずこちらをご覧ください</span></p><div class="filter" style="background-color:#000;opacity:0.45"></div></div></li><li><div class="a"><img src="https://liteword-assets.bigi-ishikawa.workers.dev/t/sample/shop/2.webp" alt=""/><h3 class="title" style="font-weight:600" data-lw_font_set="Noto Sans JP"><span>サービス</span></h3><p class="description" style="font-weight:400" data-lw_font_set="Noto Sans JP"><span>ご用意しているメニューを一覧でご紹介します</span></p><div class="filter" style="background-color:#000;opacity:0.45"></div></div></li><li><div class="a"><img src="https://liteword-assets.bigi-ishikawa.workers.dev/t/sample/shop/3.webp" alt=""/><h3 class="title" style="font-weight:600" data-lw_font_set="Noto Sans JP"><span>料金のご案内</span></h3><p class="description" style="font-weight:400" data-lw_font_set="Noto Sans JP"><span>かかる費用とお支払い方法をまとめています</span></p><div class="filter" style="background-color:#000;opacity:0.45"></div></div></li><li><div class="a"><img src="https://liteword-assets.bigi-ishikawa.workers.dev/t/sample/shop/4.webp" alt=""/><h3 class="title" style="font-weight:600" data-lw_font_set="Noto Sans JP"><span>アクセス</span></h3><p class="description" style="font-weight:400" data-lw_font_set="Noto Sans JP"><span>場所と行き方、駐車場のご案内はこちら</span></p><div class="filter" style="background-color:#000;opacity:0.45"></div></div></li></ul></nav>
 <!-- /wp:wdl/lw-banner-info-02 -->

diff --git a/LiteWord/page_template/fv_only/ptn_7.php b/LiteWord/page_template/fv_only/ptn_7.php
@@ -1,11 +1,11 @@
 <!-- wp:wdl/fv-7 -->
-<div class="wp-block-wdl-fv-7 fv-7"><div class="fv-7__inner"><h1 class="title"><div class="sub">初心者のためのWordPressテーマ</div><div class="main">LiteWord</div></h1><p class="description">テキストテキストテキストテキストテキストテキスト</p><div class="btn"><a href="" class="btn-text">詳細はこちら</a></div></div><div class="bg_image"><video autoplay muted loop playsinline data-playback-rate="1" class="lazy-video" style="display:none"><source src="https://liteword-assets.bigi-ishikawa.workers.dev/t/fv/v/fv7_default.mp4" type="video/mp4"/></video><div class="filter" style="background-color:#000000;opacity:0.5"></div></div><script>
-                        document.addEventListener('DOMContentLoaded', function() {
-                            const video = document.querySelector('.fv-7 .lazy-video');
-                            if (video) {
-                                video.style.display = 'block';
-                                video.playbackRate = video.getAttribute('data-playback-rate');
-                            }
-                        });
-                        </script></div>
+<div class="wp-block-wdl-fv-7 fv-7"><div class="fv-7__inner"><h1 class="title"><div class="sub">初心者のためのWordPressテーマ</div><div class="main">LiteWord</div></h1><p class="description">はじめての方にも分かりやすく。あなたのペースで進められます</p><div class="btn"><a href="" class="btn-text">詳細はこちら</a></div></div><div class="bg_image"><video autoplay muted loop playsinline data-playback-rate="1" class="lazy-video" style="display:none"><source src="https://liteword-assets.bigi-ishikawa.workers.dev/t/fv/v/fv7_default.mp4" type="video/mp4"/></video><div class="filter" style="background-color:#000000;opacity:0.5"></div><script>
+                                    document.addEventListener('DOMContentLoaded', function() {
+                                        const video = document.querySelector('.fv-7 .lazy-video');
+                                        if (video) {
+                                            video.style.display = 'block';
+                                            video.playbackRate = video.getAttribute('data-playback-rate');
+                                        }
+                                    });
+                                    </script></div></div>
 <!-- /wp:wdl/fv-7 -->
